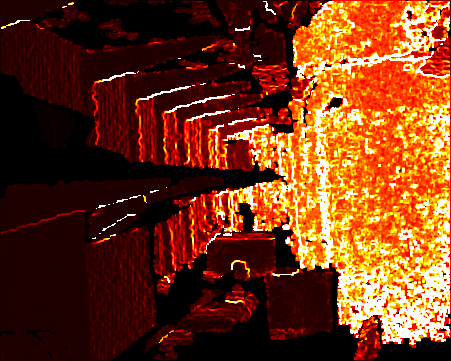
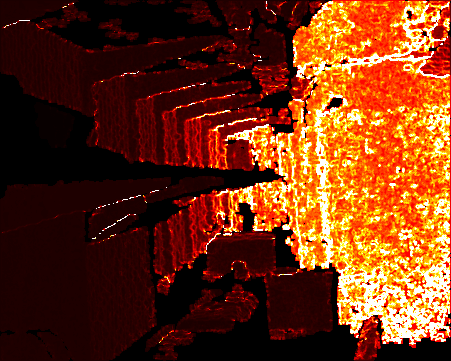
add result and test bilateral weighting strategy

diff --git a/src/gmm_inv_depth.cpp b/src/gmm_inv_depth.cpp
@@ -22,6 +22,7 @@
 #include <rosbag/bag.h>
 #include <rosbag/view.h>
 #include <boost/foreach.hpp>
+#include "get_data.hpp"
 
 using namespace std; 
 using namespace cv; 
@@ -79,6 +80,7 @@ void compute_statics(cv::Mat& G, cv::Mat&);
 cv::Mat predict_sigma(const cv::Mat& dpt);
 cv::Mat predict_grid_point(const cv::Mat& dpt); 
 cv::Mat gmm_sigma(const cv::Mat& dpt, cv::Mat& predict_sigma);
+cv::Mat gmm_bilateral_sigma(const cv::Mat& dpt, cv::Mat& predict_sigma);
 cv::Mat covert_to_color(cv::Mat& );
 
 double rmse_diff(cv::Mat& d1, cv::Mat& d2);
@@ -144,7 +146,8 @@ void processBagfile(string bagfile)
         	}
 
         	// gmm 
-        	gmm = gmm_sigma(cv_ptrD->image, prd); 
+        	// gmm = gmm_sigma(cv_ptrD->image, prd); 
+        	gmm = gmm_bilateral_sigma(cv_ptrD->image, prd);
 
         	// convert to pysudo color image 
         	cv::Mat prd_img = covert_to_color(prd); 
@@ -186,6 +189,7 @@ void processBagfile(string bagfile)
 
   	Mat mt_img = covert_to_color(G); 
   	imwrite(g_mt_file.c_str(), mt_img); 
+
   	// Mat cm_img0;
   	// applyColorMap(MU, cm_img0, COLORMAP_JET); 
   	imshow("mean_depth: ", MU);
@@ -288,6 +292,176 @@ cv::Mat predict_sigma(const cv::Mat& dpt)
 	}
 	return sigma_img;
 
+}
+
+double loss(double d, double mu, double sigma, double local_sigma=1){
+	// if(fabs(d) > 3*sigma) // for edging 
+	//	return 0; 
+	return log(SQ(mu)*SQ(d)/(2*SQ(sigma)*SQ(local_sigma))+1);
+}
+
+/*
+cv::Mat gmm_bilateral_sigma(const cv::Mat& dpt, cv::Mat& predict_sigma)
+{
+	cv::Mat gmm_sig = predict_sigma.clone();
+	// cv::Mat W = (Mat_<double>(3,3) << 1, 2, 1, 2, 4, 2, 1, 2, 1);
+	// cv::Mat W = (Mat_<double>(3,3) << 4, 1, 4, 1, 0, 1, 4, 1, 4);
+	cv::Mat W = (Mat_<double>(5,5) <<  8, 5, 4, 5, 8,
+									   5, 2, 1, 2, 5,
+									   4, 1, 0, 1, 4,
+									   5, 2, 1, 2, 5,
+									   8, 5, 4, 5, 8); // 4, 1, 4, 1, 0, 1, 4, 1, 4);
+
+	for(int r=2; r<predict_sigma.rows-2; r++)
+	for(int c=2; c<predict_sigma.cols-2; c++){
+
+		double mu_z = 0; 
+		double std_sq = 0;
+
+		double sW = 0; 
+
+		double mu_d = dpt.at<unsigned short>(r+ur, c+lc)*0.001; 
+		double std_d = predict_sigma.at<float>(r, c); 
+		if(mu_d <= 0.5 || std_d <= 1e-7) {
+			mu_d = getMean<unsigned short>(dpt, r+ur, c+lc, 3)*0.001;
+			std_d = getMean<float>(predict_sigma, r, c, 3); 
+
+			if(mu_d <= 0.5 || std_d <= 1e-7)
+				continue; 
+		}
+
+		mu_d = 1./mu_d; 
+
+		// find out valid point 
+		for(int i=0; i<5; i++)
+		for(int j=0; j<5; j++){
+			// if((i==2 && j==0) || (i==0 && j==2) || (i==2 && j==2) || (i==0 && j==0))
+			//	continue;
+			double mu_ij = dpt.at<unsigned short>(r+ur+i-2, c+lc+j-2)*0.001; 
+			double std_ij = predict_sigma.at<float>(r+i-2, c+j-2);
+			if(mu_ij <= 0.5 || std_ij <= 1e-7)
+				continue;
+			mu_ij = 1./mu_ij; 
+			double w = -W.at<double>(i,j)/2. - loss(mu_ij - mu_d, mu_d, std_d);  
+			// sW += W.at<double>(i,j);
+			sW += exp(w); 
+		}
+
+		for(int i=0; i<5; i++)
+		for(int j=0; j<5; j++){
+			// if((i==2 && j==0) || (i==0 && j==2) || (i==2 && j==2) || (i==0 && j==0))
+			//	continue;
+			double mu_ij = dpt.at<unsigned short>(r+ur+i-2, c+lc+j-2)*0.001; 
+			double std_ij = predict_sigma.at<float>(r+i-2, c+j-2);
+			if(mu_ij <= 0.5 || std_ij <= 1e-5)
+				continue;
+			mu_ij = 1./mu_ij; 
+			double w = -W.at<double>(i,j)/2. - loss(mu_ij - mu_d, mu_d, std_d);  
+			w = exp(w);
+			// mu_z += W.at<double>(i,j)*mu_ij/sW; 
+			// std_sq += W.at<double>(i,j)*(SQ(std_ij)+SQ(mu_ij))/sW;
+			mu_z += w * mu_ij / sW; 
+			std_sq += w*(SQ(std_ij)+SQ(mu_ij))/sW;
+		}
+		std_sq = std_sq - SQ(mu_z); 
+		gmm_sig.at<float>(r,c) = sqrt(std_sq); 
+	}
+	return gmm_sig;
+}*/
+
+cv::Mat gmm_bilateral_sigma(const cv::Mat& dpt, cv::Mat& predict_sigma)
+{
+	cv::Mat gmm_sig = predict_sigma.clone();
+	// cv::Mat W = (Mat_<double>(3,3) << 1, 2, 1, 2, 4, 2, 1, 2, 1);
+	cv::Mat W = (Mat_<double>(3,3) << 4, 1, 4, 1, 0, 1, 4, 1, 4);
+
+	for(int r=1; r<predict_sigma.rows-1; r++)
+	for(int c=1; c<predict_sigma.cols-1; c++){
+
+		double mu_z = 0; 
+		double std_sq = 0;
+
+		double sW = 0; 
+
+		double mu_d = dpt.at<unsigned short>(r+ur, c+lc)*0.001; 
+		double std_d = predict_sigma.at<float>(r, c); 
+		if(mu_d <= 0.5 || std_d <= 1e-7) {
+			mu_d = getMean<unsigned short>(dpt, r+ur, c+lc, 3)*0.001;
+			std_d = getMean<float>(predict_sigma, r, c, 3); 
+
+			if(mu_d <= 0.5 || std_d <= 1e-7)
+				continue; 
+		}
+
+		mu_d = 1./mu_d; 
+
+		int n_invalid = 1; 
+		double local_std = 1;
+		vector<double> vdpt;  
+
+		if(r>=2 && r<predict_sigma.rows-2 && c>=2 && c<predict_sigma.cols-2){
+		// find out local std 
+		for(int i=0; i<5; i++)
+		for(int j=0; j<5; j++){
+			double mu_ij = dpt.at<unsigned short>(r+ur+i-2, c+lc+j-2)*0.001; 
+			double std_ij = predict_sigma.at<float>(r+i-2, c+j-2);
+			if(mu_ij <= 0.5 || std_ij <= 1e-7){
+				n_invalid++;
+				continue;
+			}
+			vdpt.push_back(mu_ij); 
+		}
+
+		if(vdpt.size() > 1)
+		{
+			double sum = std::accumulate(std::begin(vdpt), std::end(vdpt), 0.0);
+			double m =  sum / vdpt.size();
+
+			double accum = 0.0;
+			std::for_each (std::begin(vdpt), std::end(vdpt), [&](const double d) {
+			    accum += (d - m) * (d - m);
+			});
+
+			double stdev = sqrt(accum / (vdpt.size()-1));
+			local_std = 1*n_invalid + stdev*10;
+		}
+		}
+
+		// find out valid point 
+		for(int i=0; i<3; i++)
+		for(int j=0; j<3; j++){
+			// if((i==2 && j==0) || (i==0 && j==2) || (i==2 && j==2) || (i==0 && j==0))
+			//	continue;
+			double mu_ij = dpt.at<unsigned short>(r+ur+i-1, c+lc+j-1)*0.001; 
+			double std_ij = predict_sigma.at<float>(r+i-1, c+j-1);
+			if(mu_ij <= 0.5 || std_ij <= 1e-7)
+				continue;
+			mu_ij = 1./mu_ij; 
+			double w = -W.at<double>(i,j)/2. - loss(mu_ij - mu_d, mu_d, std_d, local_std);  
+			// sW += W.at<double>(i,j);
+			sW += exp(w); 
+		}
+
+		for(int i=0; i<3; i++)
+		for(int j=0; j<3; j++){
+			// if((i==2 && j==0) || (i==0 && j==2) || (i==2 && j==2) || (i==0 && j==0))
+			//	continue;
+			double mu_ij = dpt.at<unsigned short>(r+ur+i-1, c+lc+j-1)*0.001; 
+			double std_ij = predict_sigma.at<float>(r+i-1, c+j-1);
+			if(mu_ij <= 0.5 || std_ij <= 1e-5)
+				continue;
+			mu_ij = 1./mu_ij; 
+			double w = -W.at<double>(i,j)/2. - loss(mu_ij - mu_d, mu_d, std_d, local_std);  
+			w = exp(w);
+			// mu_z += W.at<double>(i,j)*mu_ij/sW; 
+			// std_sq += W.at<double>(i,j)*(SQ(std_ij)+SQ(mu_ij))/sW;
+			mu_z += w * mu_ij / sW; 
+			std_sq += w*(SQ(std_ij)+SQ(mu_ij))/sW;
+		}
+		std_sq = std_sq - SQ(mu_z); 
+		gmm_sig.at<float>(r,c) = sqrt(std_sq); 
+	}
+	return gmm_sig;
 }
 
 cv::Mat gmm_sigma(const cv::Mat& dpt, cv::Mat& predict_sigma)
@@ -483,7 +657,7 @@ cv::Mat covert_to_color(cv::Mat& d)
 	cv::Mat color= cv::Mat(d.rows, d.cols, CV_8UC1, Scalar(0)); 
 
 	double MAX_STD = 0.055; 
-	double MAX_INV_STD = 0.002; 
+	double MAX_INV_STD = 0.004; 
 
 	for(int r=0; r<d.rows; r++)
 	for(int c=0; c<d.cols; c++){

diff --git a/src/gmm_depth.cpp b/src/gmm_depth.cpp
@@ -22,6 +22,7 @@
 #include <rosbag/bag.h>
 #include <rosbag/view.h>
 #include <boost/foreach.hpp>
+#include "get_data.hpp"
 
 using namespace std; 
 using namespace cv; 
@@ -81,6 +82,7 @@ void compute_statics(cv::Mat& G, cv::Mat&);
 cv::Mat predict_sigma(const cv::Mat& dpt);
 cv::Mat predict_grid_point(const cv::Mat& dpt); 
 cv::Mat gmm_sigma(const cv::Mat& dpt, cv::Mat& predict_sigma);
+cv::Mat gmm_bilateral_sigma(const cv::Mat& dpt, cv::Mat& predict_sigma);
 cv::Mat covert_to_color(cv::Mat& );
 
 double rmse_diff(cv::Mat& d1, cv::Mat& d2);
@@ -162,7 +164,8 @@ void processBagfile(string bagfile)
         	}
 
         	// gmm 
-        	gmm = gmm_sigma(cv_ptrD->image, prd); 
+        	// gmm = gmm_sigma(cv_ptrD->image, prd); 
+        	gmm = gmm_bilateral_sigma(cv_ptrD->image, prd);
 
         	// convert to pysudo color image 
         	cv::Mat prd_img = covert_to_color(prd); 
@@ -306,6 +309,105 @@ cv::Mat predict_sigma(const cv::Mat& dpt)
 	return sigma_img;
 
 }
+
+
+double loss(double d, double mu, double sigma, double local_sigma=1){
+	// if(fabs(d) > 3*sigma) // for edging 
+	//	return 0; 
+	return log(SQ(d)/(2*SQ(mu)*SQ(sigma)*SQ(local_sigma))+1);
+}
+
+cv::Mat gmm_bilateral_sigma(const cv::Mat& dpt, cv::Mat& predict_sigma)
+{
+	cv::Mat gmm_sig = predict_sigma.clone();
+	// cv::Mat W = (Mat_<double>(3,3) << 1, 2, 1, 2, 4, 2, 1, 2, 1);
+	cv::Mat W = (Mat_<double>(3,3) << 4, 1, 4, 1, 0, 1, 4, 1, 4);
+
+	for(int r=1; r<predict_sigma.rows-1; r++)
+	for(int c=1; c<predict_sigma.cols-1; c++){
+
+		double mu_z = 0; 
+		double std_sq = 0;
+
+		double sW = 0; 
+
+		double mu_d = dpt.at<unsigned short>(r+ur, c+lc)*0.001; 
+		double std_d = predict_sigma.at<float>(r, c); 
+		if(mu_d <= 0.5 || std_d <= 1e-7) {
+			mu_d = getMean<unsigned short>(dpt, r+ur, c+lc, 3)*0.001;
+			std_d = getMean<float>(predict_sigma, r, c, 3); 
+
+			if(mu_d <= 0.5 || std_d <= 1e-7)
+				continue; 
+		}
+
+		int n_invalid = 1; 
+		double local_std = 1;
+		vector<double> vdpt;  
+
+		if(r>=2 && r<predict_sigma.rows-2 && c>=2 && c<predict_sigma.cols-2){
+		// find out local std 
+		for(int i=0; i<5; i++)
+		for(int j=0; j<5; j++){
+			double mu_ij = dpt.at<unsigned short>(r+ur+i-2, c+lc+j-2)*0.001; 
+			double std_ij = predict_sigma.at<float>(r+i-2, c+j-2);
+			if(mu_ij <= 0.5 || std_ij <= 1e-7){
+				n_invalid++;
+				continue;
+			}
+			vdpt.push_back(mu_ij); 
+		}
+
+		if(vdpt.size() > 1)
+		{
+			double sum = std::accumulate(std::begin(vdpt), std::end(vdpt), 0.0);
+			double m =  sum / vdpt.size();
+
+			double accum = 0.0;
+			std::for_each (std::begin(vdpt), std::end(vdpt), [&](const double d) {
+			    accum += (d - m) * (d - m);
+			});
+
+			double stdev = sqrt(accum / (vdpt.size()-1));
+			local_std = 1*n_invalid + stdev*10;
+		}
+		}
+
+		// find out valid point 
+		for(int i=0; i<3; i++)
+		for(int j=0; j<3; j++){
+			// if((i==2 && j==0) || (i==0 && j==2) || (i==2 && j==2) || (i==0 && j==0))
+			//	continue;
+			double mu_ij = dpt.at<unsigned short>(r+ur+i-1, c+lc+j-1)*0.001; 
+			double std_ij = predict_sigma.at<float>(r+i-1, c+j-1);
+			if(mu_ij <= 0.5 || std_ij <= 1e-7)
+				continue;
+			double w = -W.at<double>(i,j)/2. - loss(mu_ij - mu_d, mu_d, std_d, local_std);  
+			// sW += W.at<double>(i,j);
+			sW += exp(w); 
+		}
+
+		for(int i=0; i<3; i++)
+		for(int j=0; j<3; j++){
+			// if((i==2 && j==0) || (i==0 && j==2) || (i==2 && j==2) || (i==0 && j==0))
+			//	continue;
+			double mu_ij = dpt.at<unsigned short>(r+ur+i-1, c+lc+j-1)*0.001; 
+			double std_ij = predict_sigma.at<float>(r+i-1, c+j-1);
+			if(mu_ij <= 0.5 || std_ij <= 1e-5)
+				continue;
+			double w = -W.at<double>(i,j)/2. - loss(mu_ij - mu_d, mu_d, std_d, local_std);  
+			w = exp(w);
+			// mu_z += W.at<double>(i,j)*mu_ij/sW; 
+			// std_sq += W.at<double>(i,j)*(SQ(std_ij)+SQ(mu_ij))/sW;
+			mu_z += w * mu_ij / sW; 
+			std_sq += w*(SQ(std_ij)+SQ(mu_ij))/sW;
+		}
+		std_sq = std_sq - SQ(mu_z); 
+		gmm_sig.at<float>(r,c) = sqrt(std_sq); 
+	}
+	return gmm_sig;
+}
+
 
 cv::Mat gmm_sigma(const cv::Mat& dpt, cv::Mat& predict_sigma)
 {	

diff --git a/src/get_data.hpp b/src/get_data.hpp
@@ -13,7 +13,7 @@
 #include <vector>
 
 template<typename T>
-T getMean(cv::Mat& M, int r, int c, int w)
+T getMean(const cv::Mat& M, int r, int c, int w)
 {
 	int rr = M.rows; 
 	int cc = M.cols; 
@@ -40,7 +40,7 @@ T getMean(cv::Mat& M, int r, int c, int w)
 }
 
 template<typename T>
-T getMedian(cv::Mat& M, int r, int c, int w)
+T getMedian(const cv::Mat& M, int r, int c, int w)
 {
 	int rr = M.rows; 
 	int cc = M.cols; 
